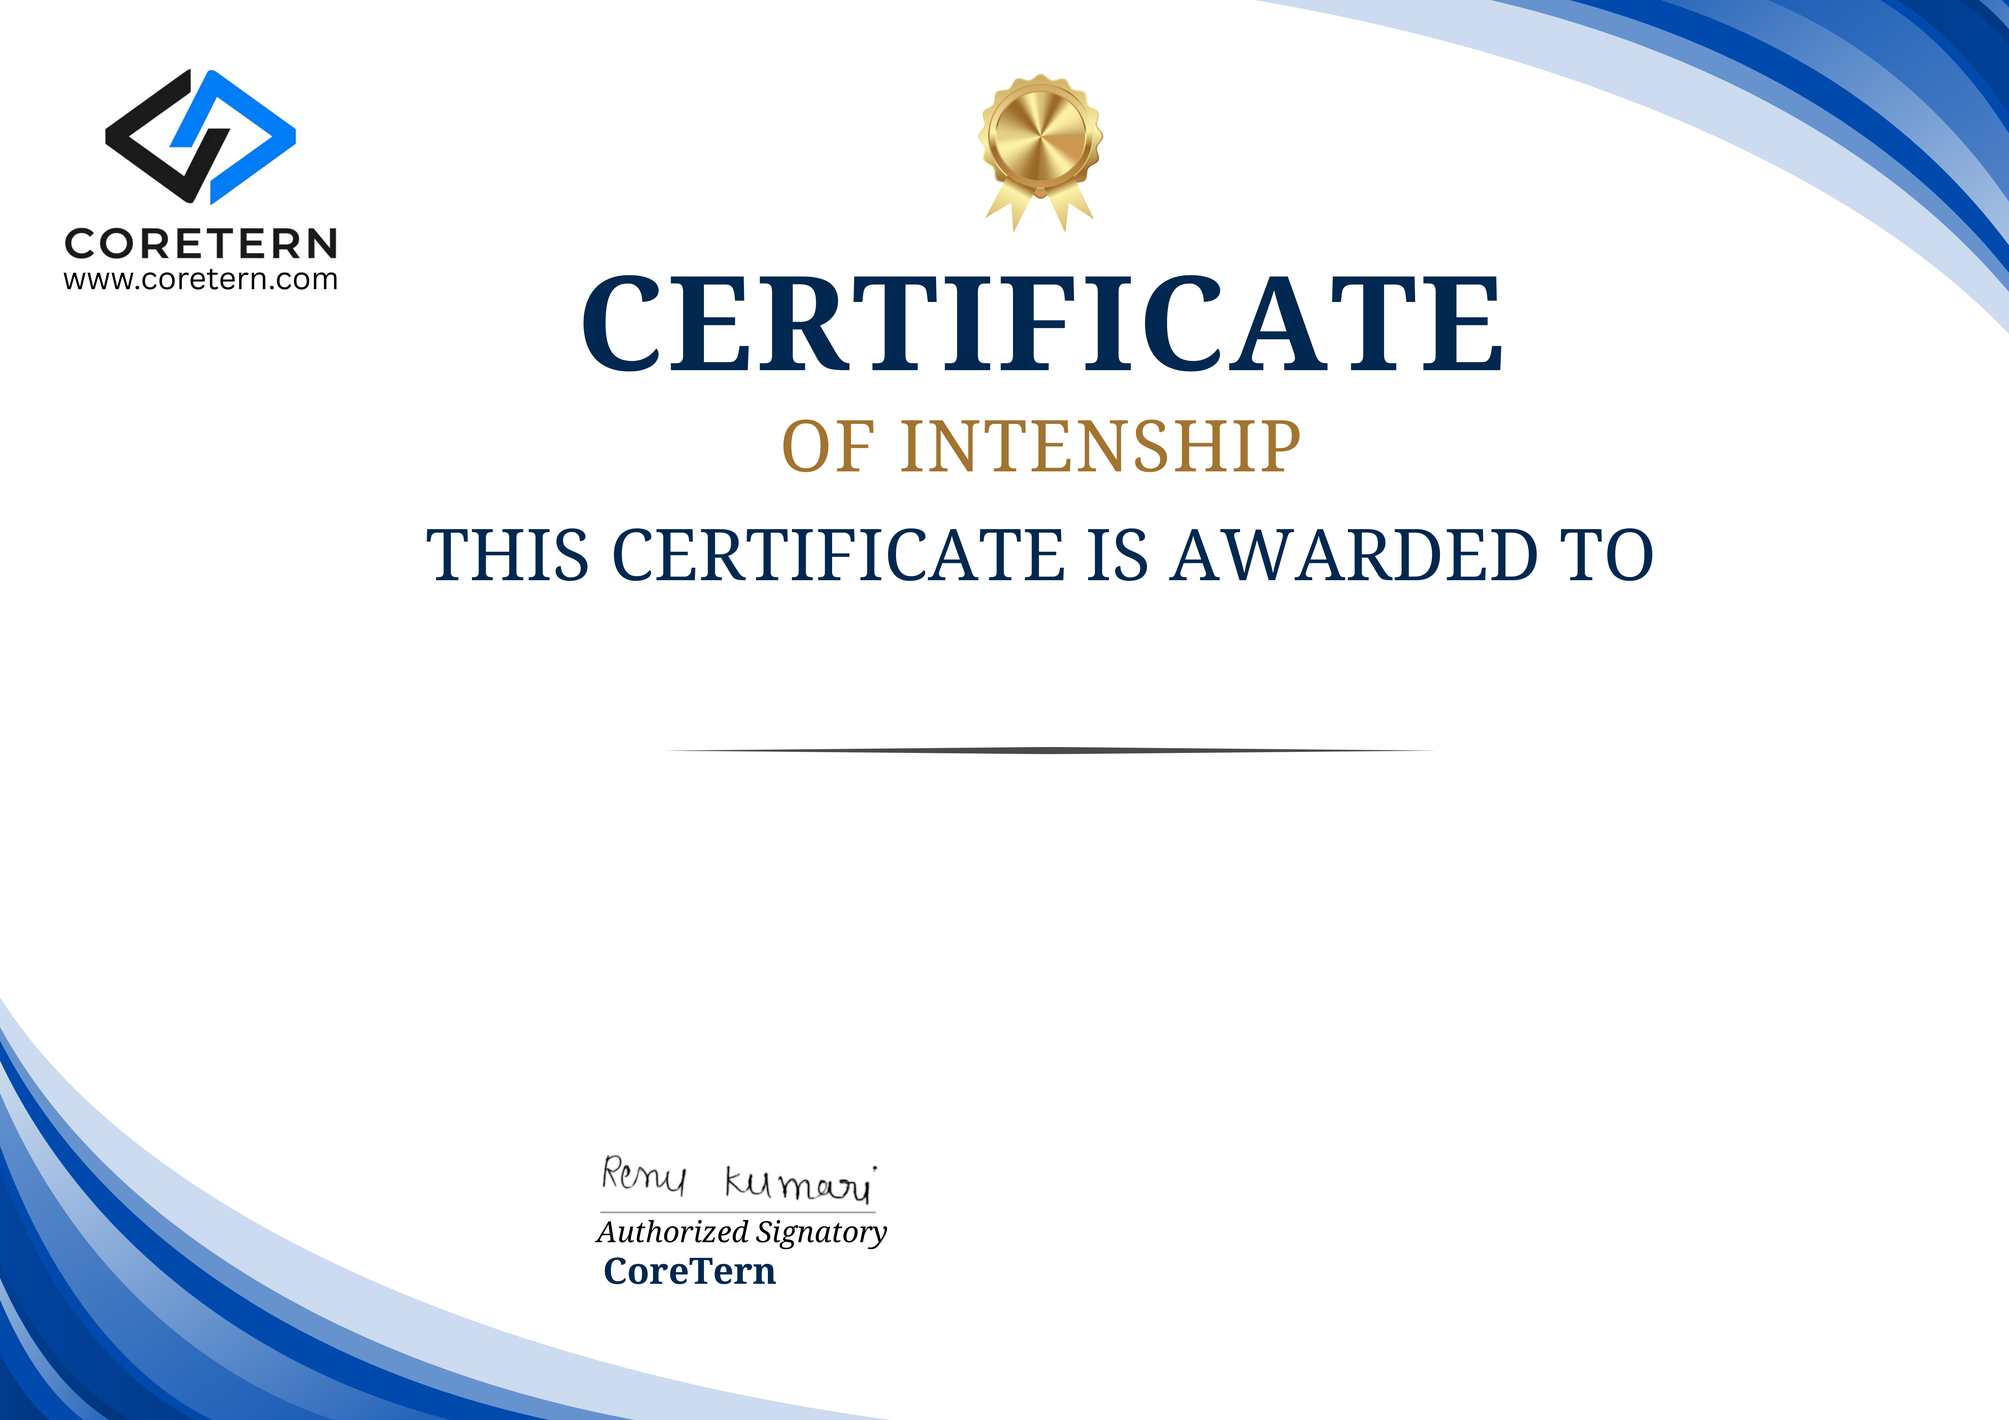
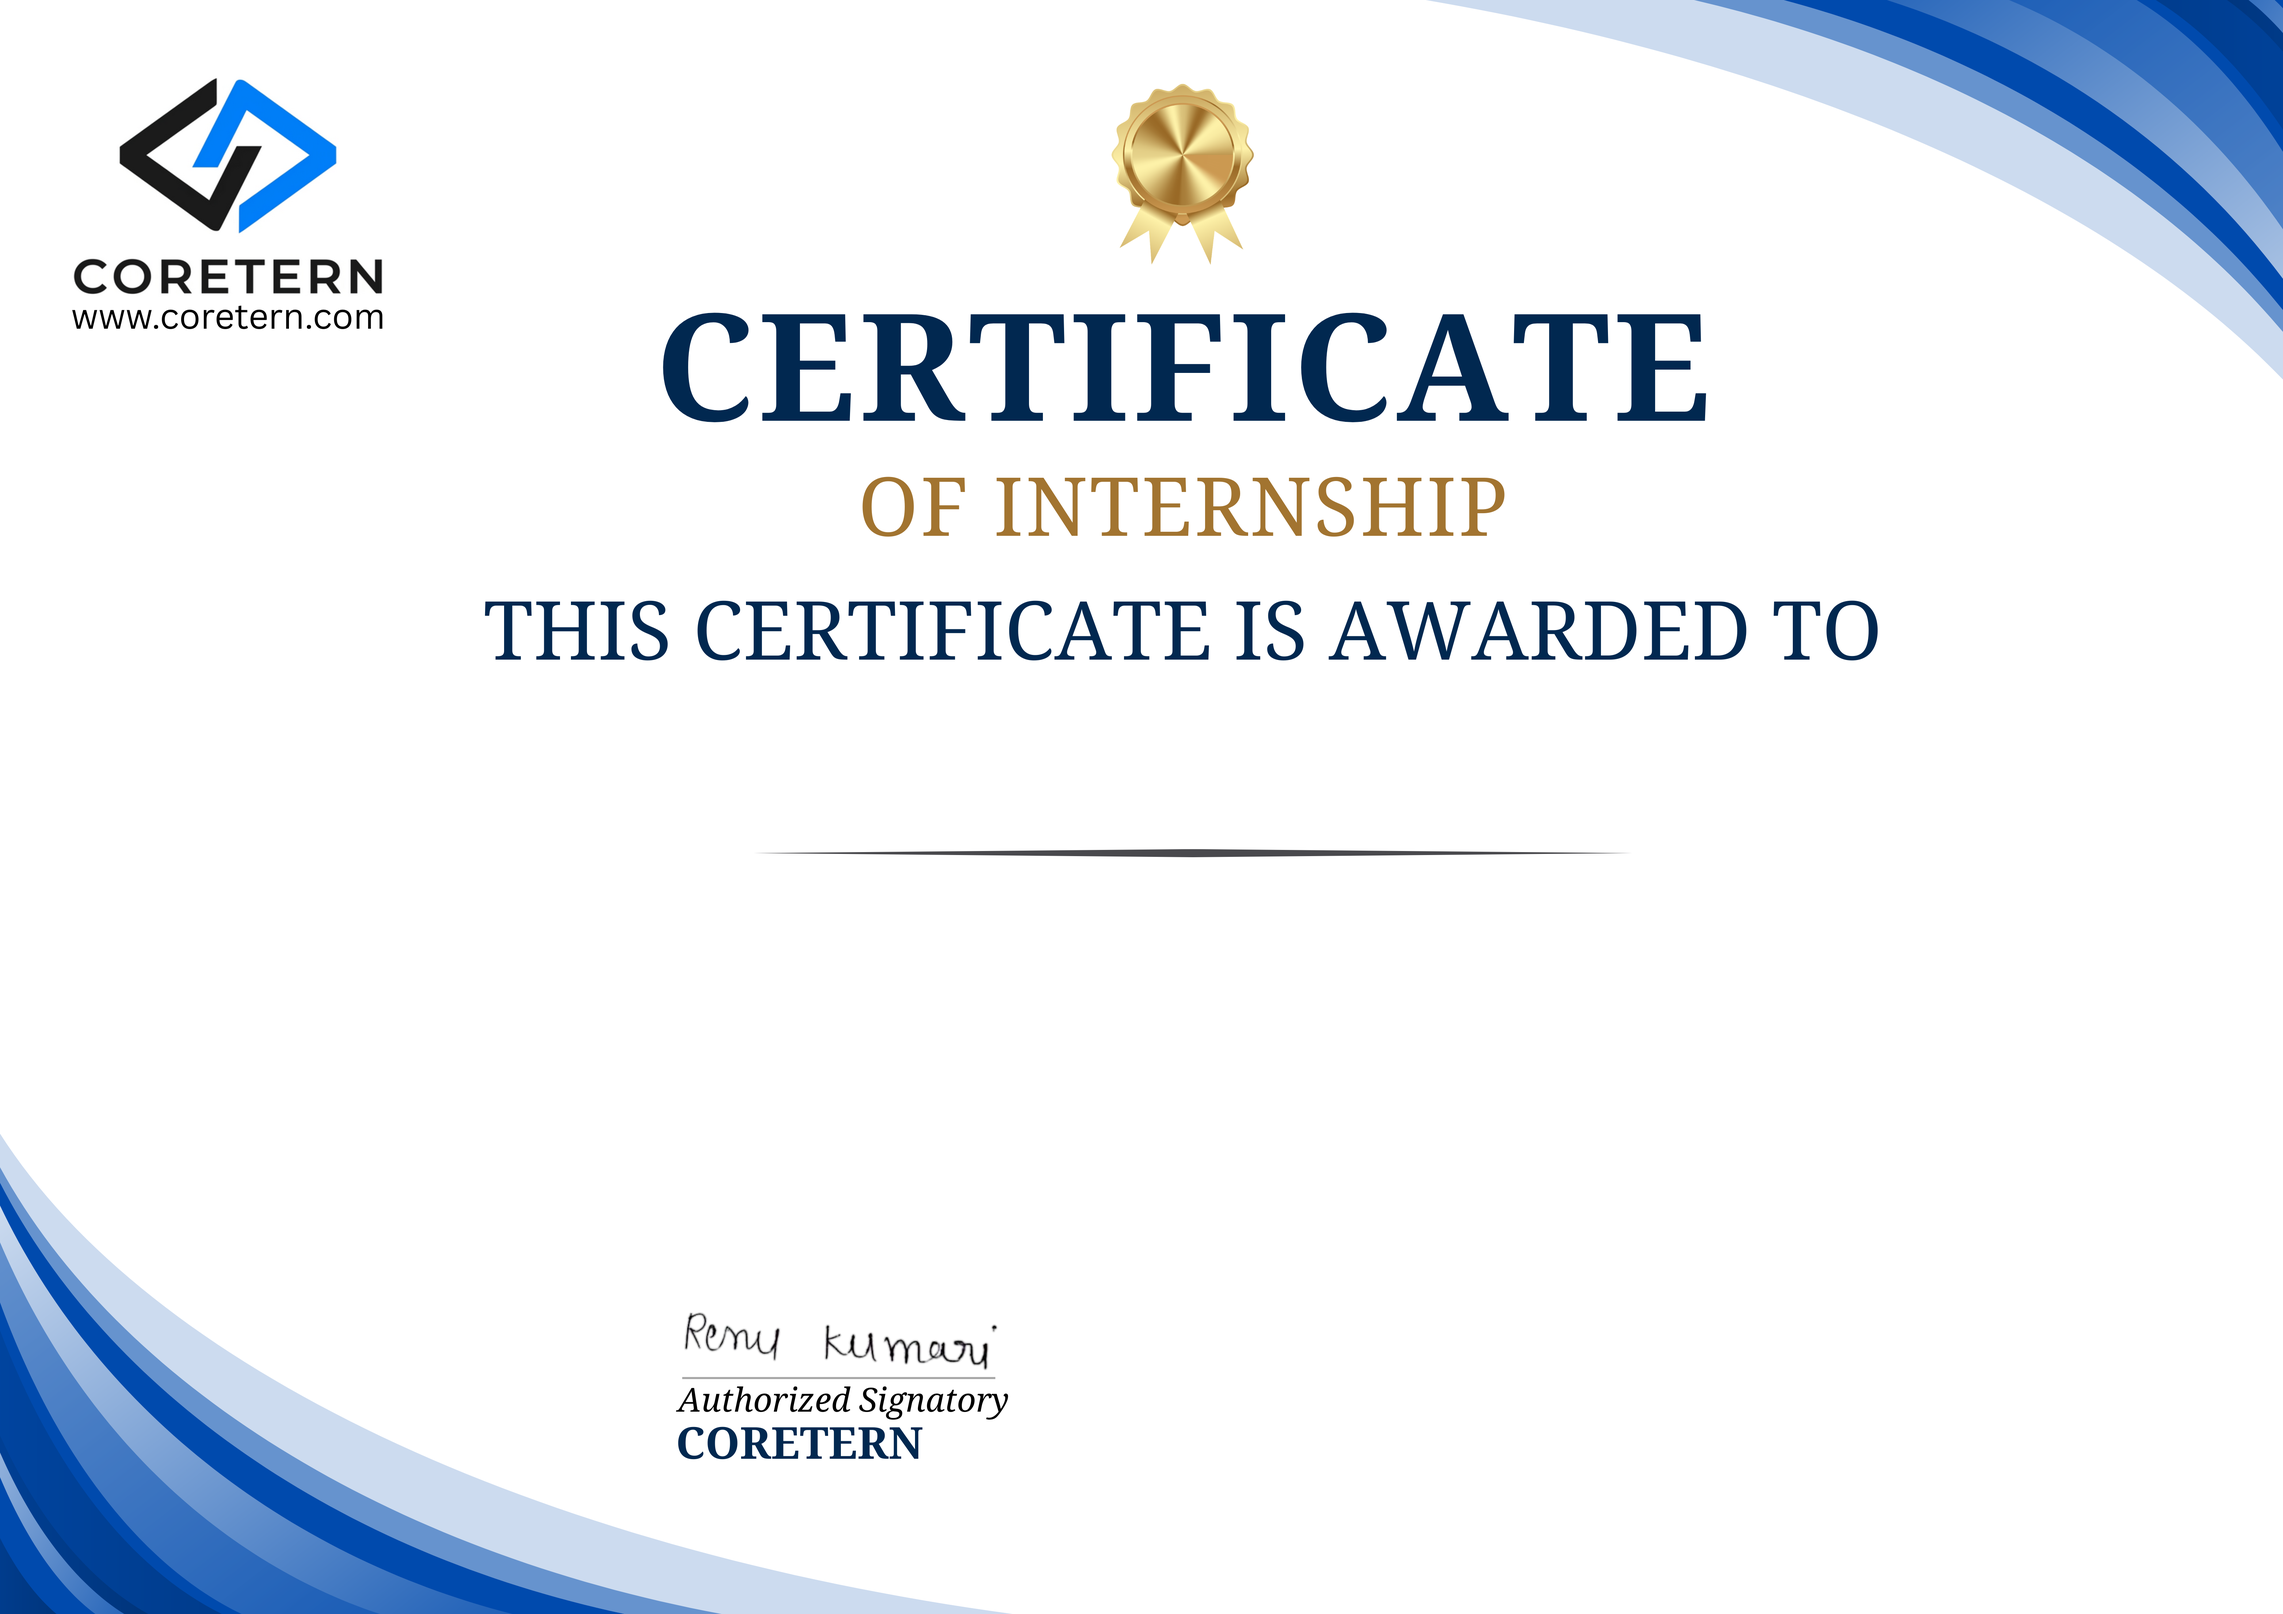
Certificate fixed

Changed region(s): [[0.3731, 0.28, 0.6529, 0.3422], [0.2798, 0.8712, 0.4042, 0.9023]]

diff --git a/frontend/src/Components/CertificateTemplate/CertificateTemplate.jsx b/frontend/src/Components/CertificateTemplate/CertificateTemplate.jsx
@@ -21,42 +21,42 @@ const CertificateTemplate = ({ id, user, internship, enrollment, date, qrCode })
             const diffTime = Math.abs(end - start);
             const diffDays = Math.ceil(diffTime / (1000 * 60 * 60 * 24));
             const weeks = Math.round(diffDays / 7);
-            return weeks > 0 ? `${weeks} weeks` : `${diffDays} days`;
+            return weeks > 0 ? `${weeks}-week` : `${diffDays}-day`;
         }
-        return internship?.duration || '4 weeks';
+        const duration = internship?.duration || '4 weeks';
+        return duration.toLowerCase().includes('week') ? duration.replace(/weeks?/i, '-week') : duration;
     };
 
     const recipientName = enrollment?.fullName || user?.name || 'Valued Learner';
     const courseName = enrollment?.course || 'Technology Program';
     const branchName = enrollment?.branch ? ` (${enrollment.branch})` : '';
-    const collegeName = enrollment?.collegeName ? ` of ${enrollment.collegeName}` : '';
-    const regNo = enrollment?.collegeRegNumber ? `, bearing Roll no. ${enrollment.collegeRegNumber}` : '';
+    const collegeNameRaw = enrollment?.collegeName || '';
+    const collegeName = collegeNameRaw.split(' ').map(word =>
+        word.charAt(0).toUpperCase() + word.slice(1).toLowerCase()
+    ).join(' ');
+    const regNo = enrollment?.collegeRegNumber ? ` (Roll No. ${enrollment.collegeRegNumber})` : '';
 
     return (
         <div id="certificate-print" className="certificate-container template-mode">
             <img src={certTemplate} className="cert-template-bg" alt="Certificate Background" />
 
             <div className="cert-content-overlay">
-                <header className="cert-header">
-                    <div className="cert-id-tag">
-                        <span>CERTIFICATE ID: {id}</span>
-                    </div>
-                </header>
-
                 <main className="cert-main">
                     <h2 className="cert-recipient-name outfit">{recipientName}</h2>
                     <p className="cert-dynamic-text">
-                        Student of <strong>{courseName}{branchName}</strong>{regNo}{collegeName}.
-                        Has successfully completed <strong>{getDurationWeeks()}</strong> ({formatDate(enrollment?.startDate)} to {formatDate(enrollment?.endDate)}) internship on
-                        <strong> {internship?.title}</strong>.
+                        This document certifies the successful completion of an internship in
+                        <strong> {internship?.title} </strong> from
+                        <strong> {formatDate(enrollment?.startDate)} </strong> to
+                        <strong> {formatDate(enrollment?.endDate)}</strong>.
+                        As a student of <strong>{courseName}{branchName}</strong> at
+                        <strong> {collegeName || 'their institution'}</strong>{regNo},
+                        they have demonstrated commendable diligence and proficiency in all assigned
+                        tasks during their <strong> {getDurationWeeks()} </strong> tenure.
                     </p>
                 </main>
 
                 <footer className="cert-footer">
                     <div className="cert-left-bottom">
-                        <div className="cert-issue-date">
-                            Issued on: {new Date(date).toLocaleDateString('en-GB', { day: '2-digit', month: 'long', year: 'numeric' })}
-                        </div>
                     </div>
 
                     <div className="cert-right-bottom">

diff --git a/frontend/src/Components/CertificateTemplate/CertificateTemplate.css b/frontend/src/Components/CertificateTemplate/CertificateTemplate.css
@@ -52,8 +52,8 @@
     align-items: center;
     justify-content: flex-start;
     padding: 0 8%;
-    margin-top: 12.5rem;
-    /* Pushes name further down as requested */
+    margin-top: 19.1rem;
+    /* Nudged down ~1.5px to 2px */
 }
 
 .cert-recipient-name {
@@ -62,17 +62,19 @@
     font-weight: 850;
     color: #1a202c;
     margin-bottom: 3.5rem;
-    /* Space between name and description text */
+    margin-left: 15px;
+    /* Nudged another 5px to the right */
     text-transform: capitalize;
     letter-spacing: -0.5px;
 }
 
 .cert-dynamic-text {
-    font-size: 1.15rem;
-    line-height: 1.8;
+    font-size: 1.1rem;
+    line-height: 1.6;
     color: #475569;
-    max-width: 800px;
+    max-width: 820px;
     text-align: center;
+    margin-top: -0.5rem;
 }
 
 .cert-dynamic-text strong {
@@ -94,10 +96,9 @@
     display: flex;
     flex-direction: column;
     align-items: center;
-    margin-left: 14.2rem;
-    /* Moved another ~10px to the left */
+    margin-left: 13.6rem;
+    /* Moved another 10px to the left */
     margin-bottom: -1.2rem;
-    /* Moved ~5px up */
 }
 
 .cert-issue-date {
